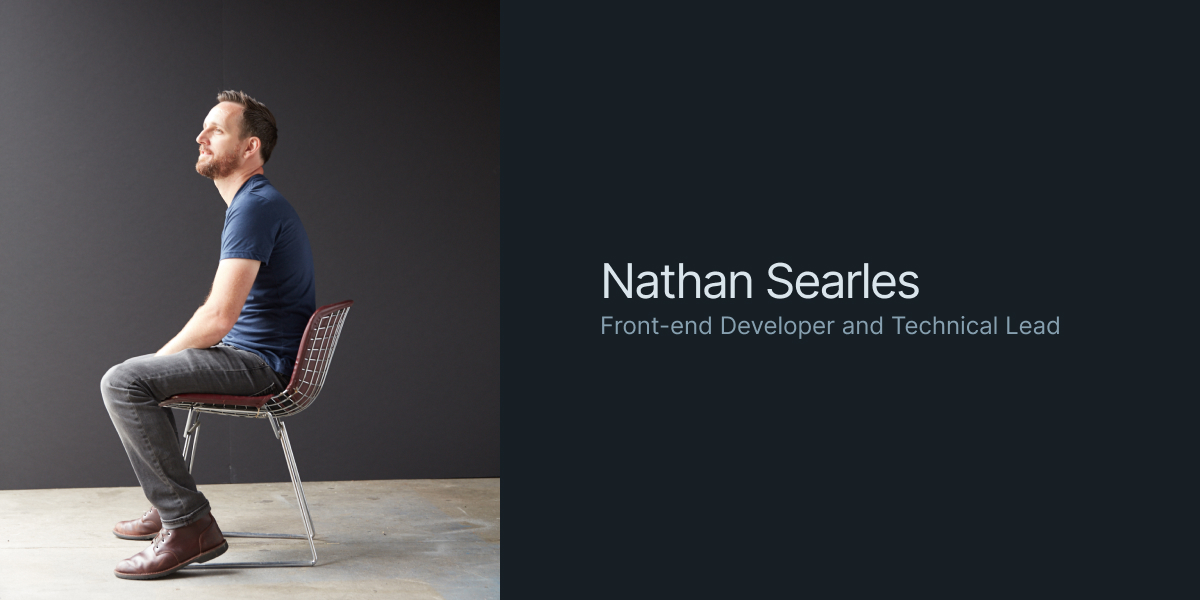
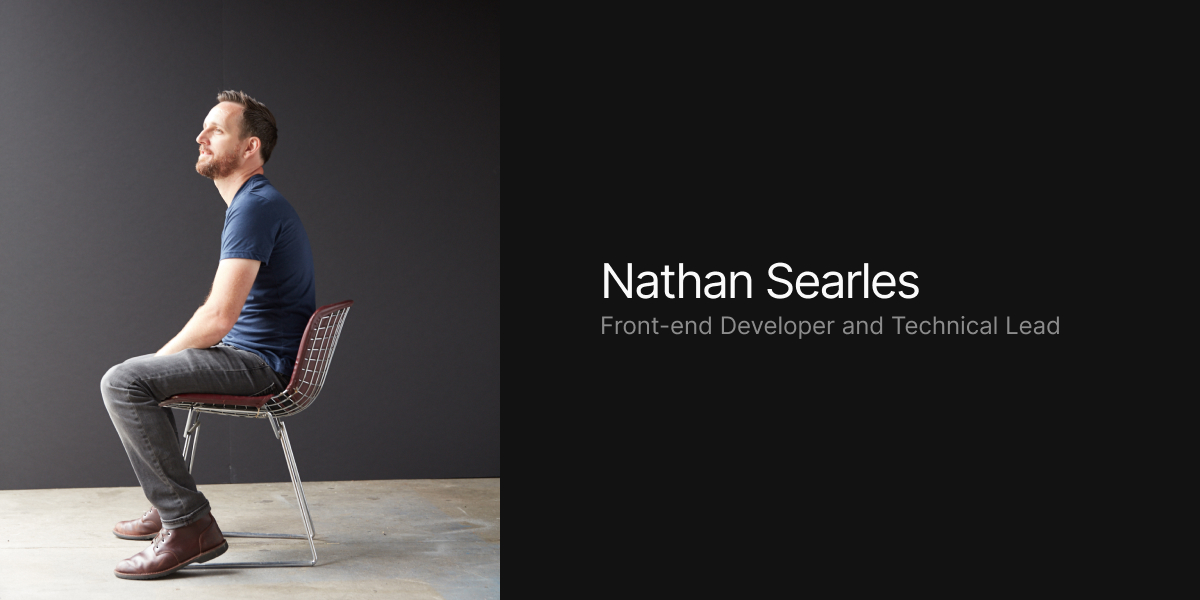
Adjust color tone

Changed region(s): [[0.4933, 0.45, 0.8942, 0.57]]

diff --git a/src/styles/global.css b/src/styles/global.css
@@ -5,9 +5,9 @@
 
 :root {
   /* Colors */
-  --color-black: #111;
-  --color-white: hsl(203 47% 98% / 1);
-  --color-muted: hsl(203 20% 68% / 1);
+  --color-black: hsl(0, 0%, 7%);
+  --color-white: hsl(0, 0%, 98%);
+  --color-muted: hsl(0, 0%, 55%);
 
   /* Theme */
   --radius: 0.625rem;
